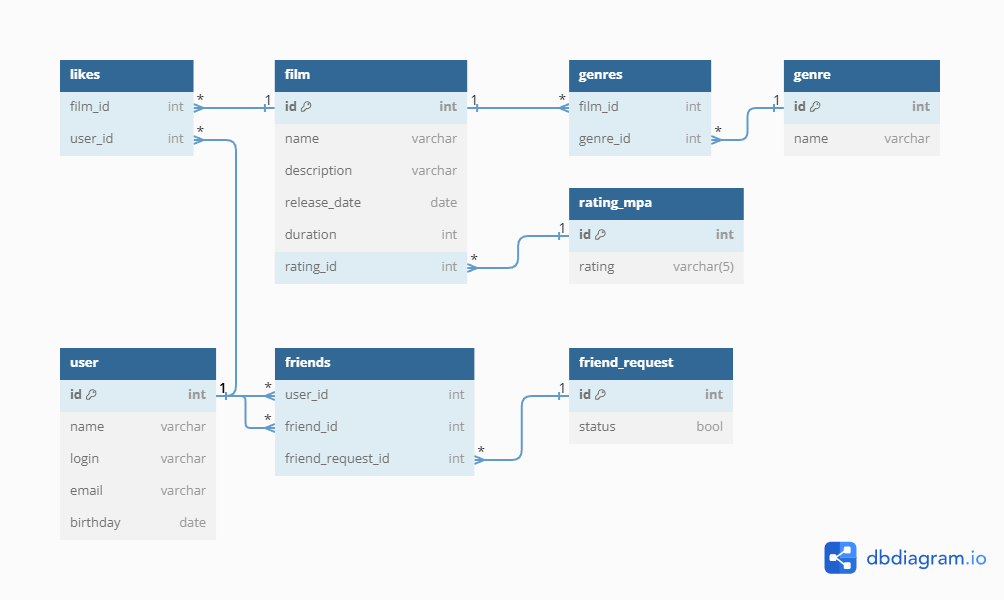
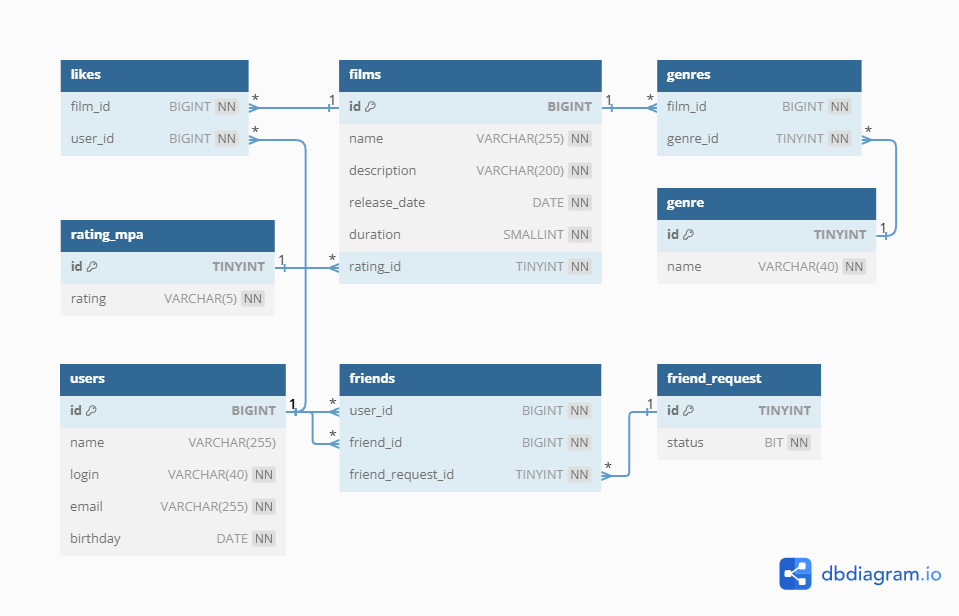
fix: * db schema * readme sql query

diff --git a/README.md b/README.md
@@ -19,32 +19,27 @@
   ```
 - список 10 наиболее популярных фильмов:
   ```sql
-  SELECT *
-  FROM film AS f
-  JOIN rating_mpa AS r 
-    ON r.id = f.rating_id
-  WHERE f.id IN (
-      SELECT film_id
-      FROM likes
-      GROUP BY film_id
-      ORDER BY COUNT(user_id) DESC
-      LIMIT 10
-  );  
+  SELECT f.name,
+         f.description,
+         f.release_date,
+         f.duration,
+         r.rating,
+         COUNT(l.user_id) AS popularity
+  FROM films AS f
+  JOIN rating_mpa AS r ON r.id = f.rating_id
+  JOIN likes AS l ON l.film_id = f.id
+  GROUP BY l.film_id
+  ORDER BY popularity DESC
+  LIMIT 10;
   ```
 - список общих друзей `@user_1` и `@user_2`
   ```sql
   SELECT *
-  FROM user
-  WHERE id IN (
-      SELECT f1.friend_id
-      FROM friends AS f1
-      JOIN friends AS f2 
-        ON f1.friend_id = f2.friend_id
-      JOIN friend_request AS fr 
-        ON fr.id = f1.friend_request_id 
-       AND fr.id = f2.friend_request_id
-      WHERE fr.status
-        AND f1.user_id = @user_1 
-        AND f2.user_id = @user_2
-  ) AS mutual_friend_id;
+  FROM users
+  WHERE id IN (SELECT f1.friend_id
+               FROM friends AS f1
+               JOIN friends AS f2 ON f1.friend_id = f2.friend_id
+               JOIN friend_request AS fr ON fr.id = f1.friend_request_id AND fr.id = f2.friend_request_id
+               WHERE fr.status AND f1.user_id = @user_1 AND f2.user_id = @user_2
+  );
   ```
